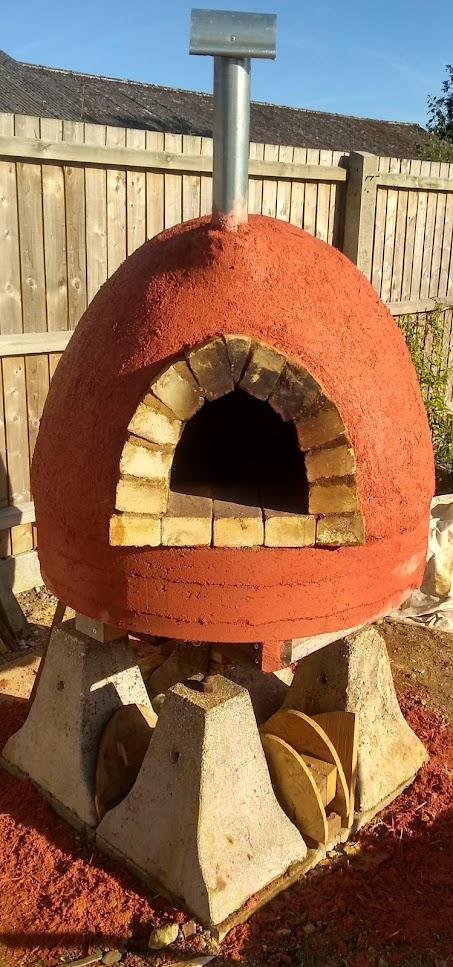
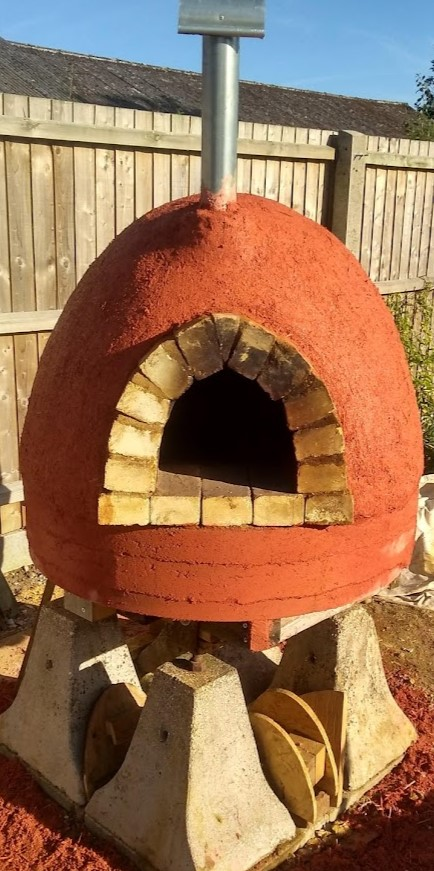
v15

diff --git a/index.html b/index.html
@@ -110,7 +110,7 @@
                 </div>
             </a>
             <a href="projects/shaft-design.html" class="grid-item">
-                <img src="gallerypics/shaft-design.jpg" alt="shaft design">
+                <img src="gallerypics/shaft.jpg" alt="shaft design">
                 <div class="overlay">
                     <div class="overlay-text">
                         <span class="overlay-title">Shaft Design</span>
@@ -119,7 +119,7 @@
                 </div>
             </a>
             <a href="projects/pizza-oven.html" class="grid-item item-tall">
-                <img src="gallerypics/pizzaoven.jpg" alt="pizza oven">
+                <img src="gallerypics/oven.jpg" alt="pizza oven">
                 <div class="overlay">
                     <div class="overlay-text">
                         <span class="overlay-title">Pizza Oven</span>

diff --git a/css/styles.css b/css/styles.css
@@ -121,8 +121,9 @@ h1 {
     text-align: right;
     line-height: 1.3;
     max-width: 80%;
-    word-wrap: break-word;
-    hyphens: auto;
+    word-wrap: normal;
+    hyphens: none;
+    overflow-wrap: break-word;
 }
 
 .overlay-title {
@@ -131,8 +132,9 @@ h1 {
     margin-bottom: 8px;
     display: block;
     line-height: 1.1;
-    word-wrap: break-word;
+    word-wrap: normal;
     overflow-wrap: break-word;
+    hyphens: none;
 }
 
 .overlay-subtitle {
@@ -141,8 +143,9 @@ h1 {
     opacity: 0.9;
     display: block;
     line-height: 1.3;
-    word-wrap: break-word;
+    word-wrap: normal;
     overflow-wrap: break-word;
+    hyphens: none;
 }
 
 /* Grid item size variations */
